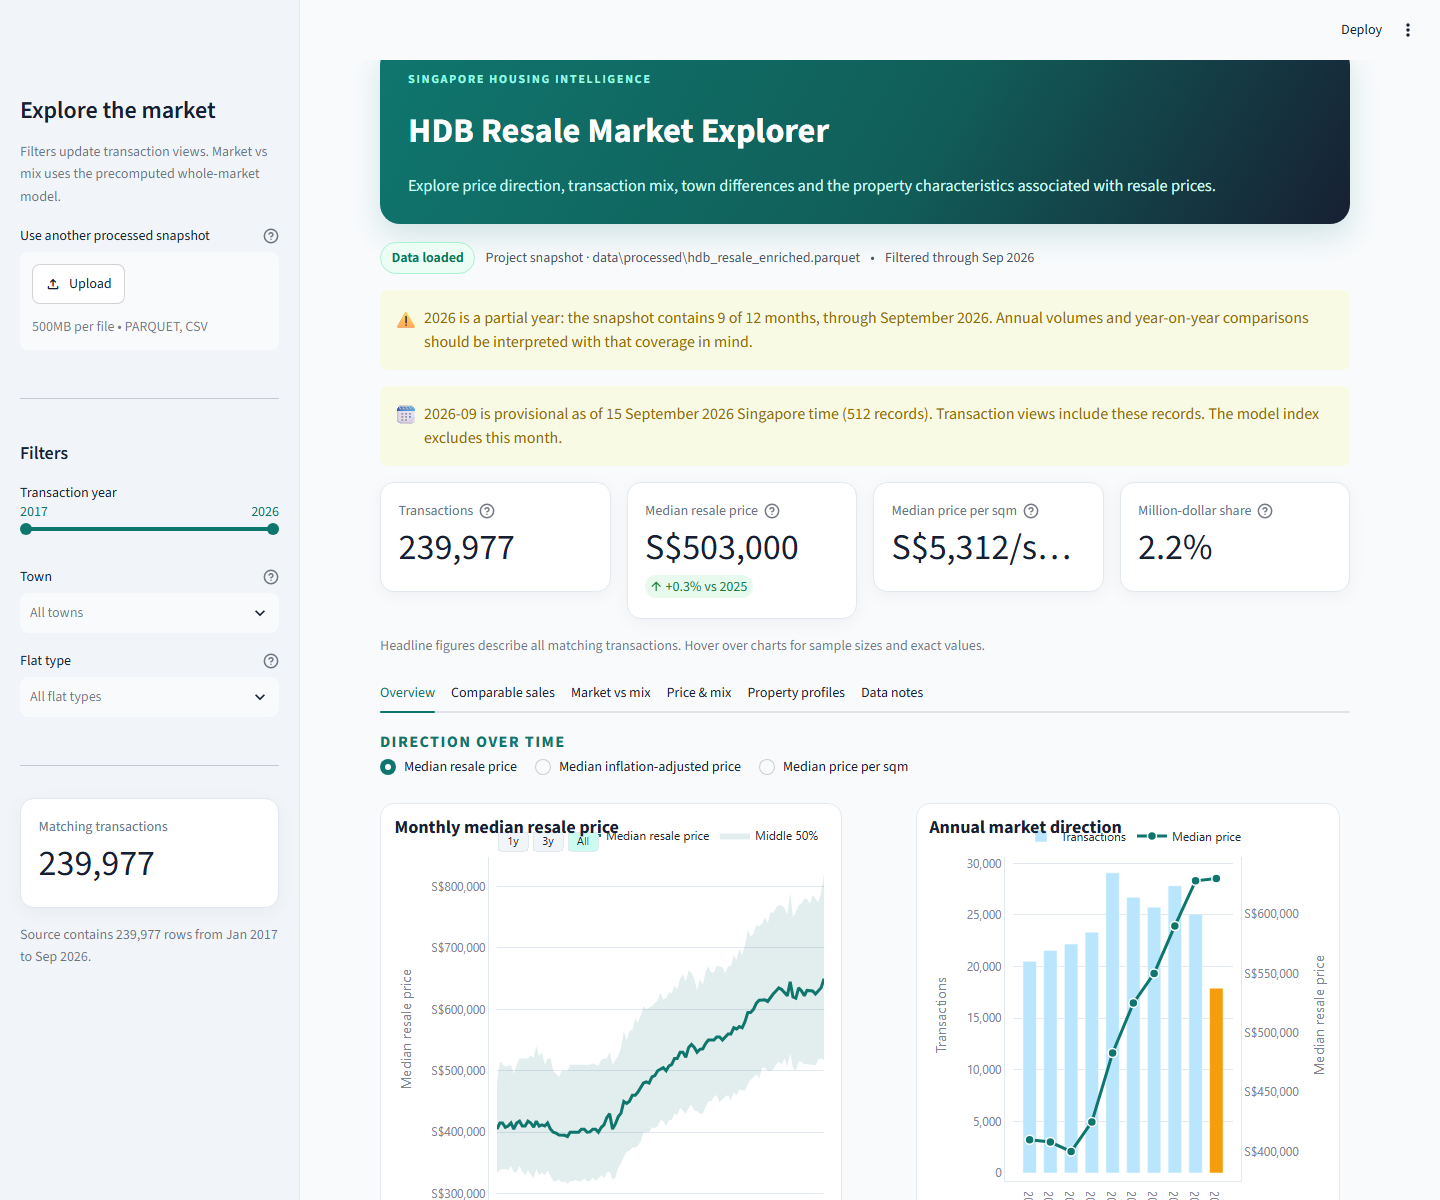
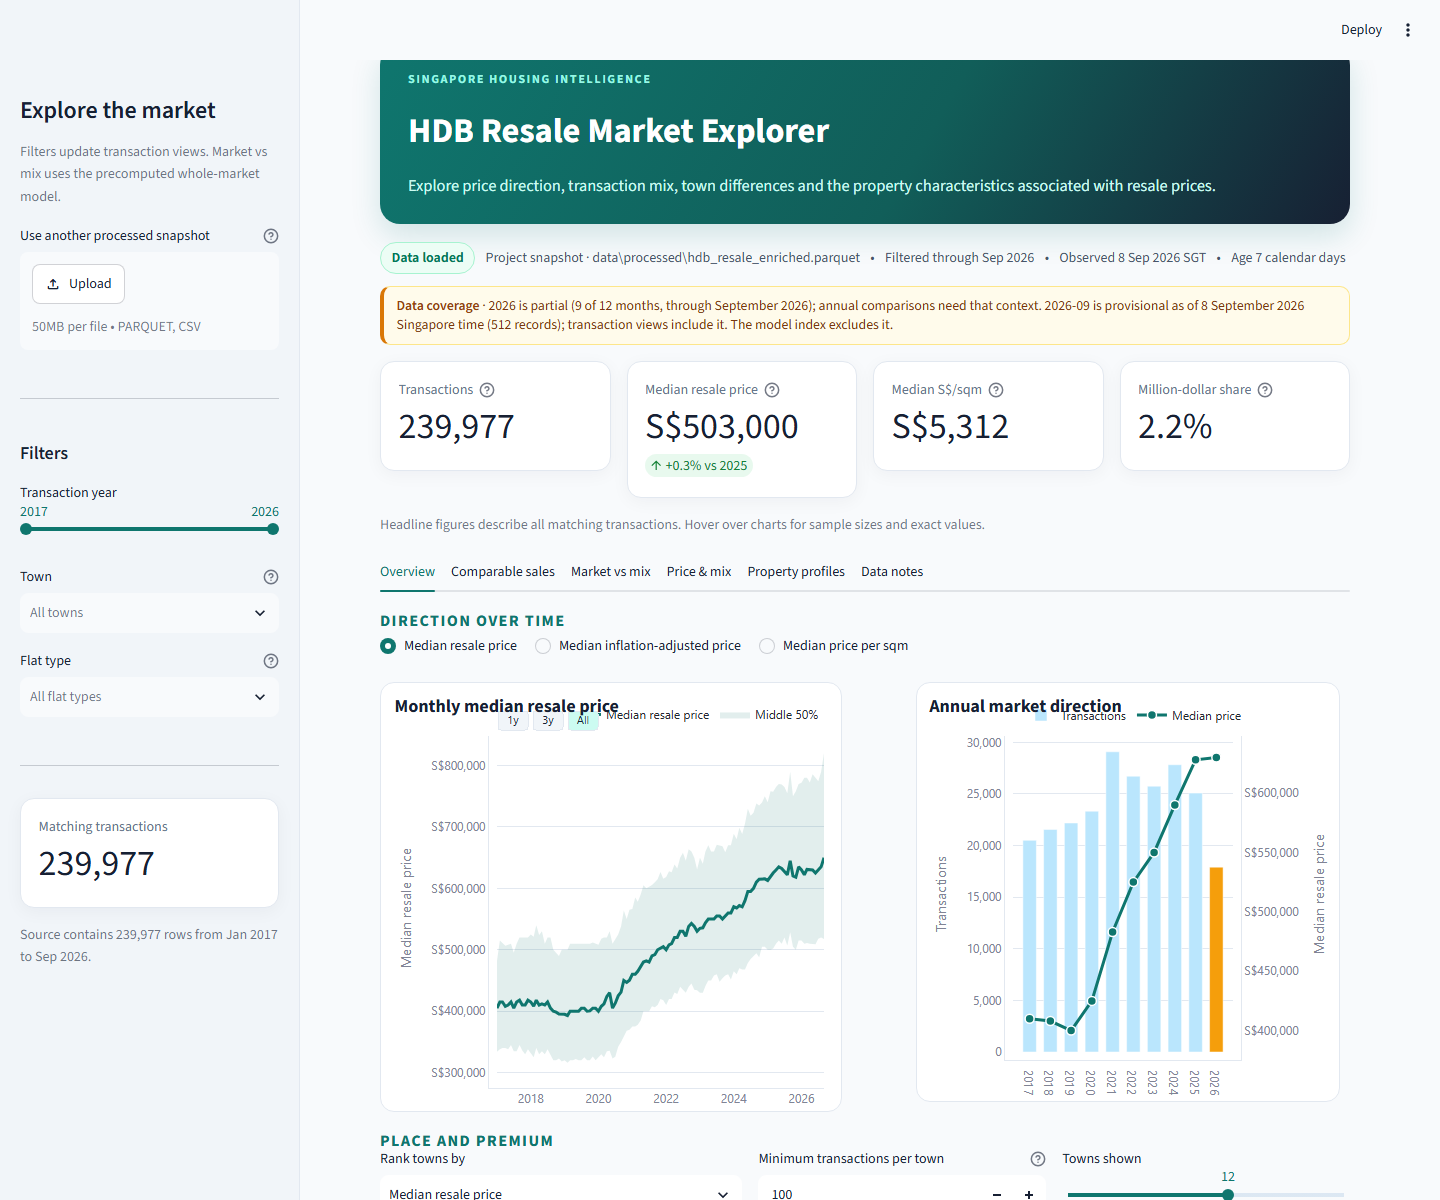
Release v1.1 dashboard polish

diff --git a/app.py b/app.py
@@ -90,6 +90,18 @@ st.markdown(
         margin: 0 0 1rem; color: #475569; font-size: 0.87rem;
       }
       .source-pill { background: #ecfdf5; color: #047857; border: 1px solid #a7f3d0; border-radius: 999px; padding: 0.22rem 0.65rem; font-weight: 650; }
+      .coverage-notice {
+        margin: -0.25rem 0 1rem;
+        padding: 0.58rem 0.78rem;
+        border: 1px solid #fde68a;
+        border-left: 4px solid #d97706;
+        border-radius: 10px;
+        background: #fffbeb;
+        color: #78350f;
+        font-size: 0.86rem;
+        line-height: 1.4;
+      }
+      .coverage-notice strong { color: #92400e; }
       .section-kicker { color: #0f766e; font-size: 0.78rem; letter-spacing: 0.09em; text-transform: uppercase; font-weight: 750; margin-bottom: -0.45rem; }
       .small-note { color: #64748b; font-size: 0.86rem; line-height: 1.45; }
       div[data-testid="stPlotlyChart"] { background: white; border: 1px solid #e2e8f0; border-radius: 14px; padding: 0.3rem; }
@@ -227,25 +239,28 @@ def optional_report(path: Path) -> pd.DataFrame | None:
 def provisional_source_month(
     transactions: pd.DataFrame,
     source_sha256: str,
+    *,
+    equivalent_hashes: tuple[str, ...] = (),
 ) -> dict[str, object] | None:
-    """Return a provisional latest-month disclosure independent of model files."""
-    as_of = pd.Timestamp.now(tz="Asia/Singapore")
+    """Return a provisional latest-month disclosure with verified source provenance."""
+    as_of: pd.Timestamp | None = None
     if SNAPSHOT_METADATA_PATH.is_file():
         try:
             snapshot = json.loads(SNAPSHOT_METADATA_PATH.read_text(encoding="utf-8"))
             matching_hashes = {
                 snapshot.get("processed_sha256"),
                 snapshot.get("processed_parquet_sha256"),
+                *equivalent_hashes,
             }
             if source_sha256 in matching_hashes:
-                timestamp_value = snapshot.get(
-                    "source_modified_at_utc",
-                    snapshot.get("generated_at_utc"),
-                )
+                timestamp_value = snapshot.get("source_modified_at_utc")
                 if timestamp_value:
                     as_of = pd.Timestamp(timestamp_value)
         except (OSError, TypeError, ValueError, json.JSONDecodeError):
-            pass
+            return None
+
+    if as_of is None:
+        return None
 
     if as_of.tzinfo is None:
         as_of = as_of.tz_localize("Asia/Singapore")
@@ -1018,9 +1033,9 @@ def comparable_map_figure(
     figure.update_layout(
         title=dict(
             text=(
-                "Comparable blocks and MRT network"
+                "Comparable blocks with MRT reference layer"
                 if has_sales_points
-                else "MRT network reference"
+                else "MRT reference layer"
             ),
             x=0.01,
             font=dict(size=18),
@@ -1086,8 +1101,8 @@ except DashboardDataError as exc:
 
 snapshot_freshness = None
 tracked_snapshot = tracked_snapshot_metadata()
+verified_equivalent_hashes: tuple[str, ...] = ()
 if uploaded_snapshot is None and tracked_snapshot is not None:
-    equivalent_hashes: tuple[str, ...] = ()
     if default_enriched_snapshot_is_verified():
         enrichment = enrichment_metadata() or {}
         enrichment_output = enrichment.get("output", {})
@@ -1097,11 +1112,11 @@ if uploaded_snapshot is None and tracked_snapshot is not None:
             else None
         )
         if isinstance(enriched_hash, str):
-            equivalent_hashes = (enriched_hash,)
+            verified_equivalent_hashes = (enriched_hash,)
     snapshot_freshness = assess_snapshot_freshness(
         tracked_snapshot,
         source_sha256,
-        equivalent_hashes=equivalent_hashes,
+        equivalent_hashes=verified_equivalent_hashes,
     )
 
 all_years = sorted(int(year) for year in transactions["year"].unique())
@@ -1228,14 +1243,17 @@ latest_source_year = int(full_coverage["year"].max())
 latest_coverage = full_coverage.loc[full_coverage["year"].eq(latest_source_year)].iloc[
     0
 ]
-provisional_month = provisional_source_month(transactions, source_sha256)
+provisional_month = provisional_source_month(
+    transactions,
+    source_sha256,
+    equivalent_hashes=verified_equivalent_hashes,
+)
+coverage_notes: list[str] = []
 if latest_source_year in selected_years and bool(latest_coverage["is_partial"]):
-    st.warning(
-        f"{latest_source_year} is a partial year: the snapshot contains "
-        f"{int(latest_coverage['months_observed'])} of 12 months, through "
-        f"{latest_coverage['last_month']:%B %Y}. Annual volumes and year-on-year "
-        "comparisons should be interpreted with that coverage in mind.",
-        icon="⚠",
+    coverage_notes.append(
+        f"{latest_source_year} is partial ({int(latest_coverage['months_observed'])} "
+        f"of 12 months, through {latest_coverage['last_month']:%B %Y}); annual "
+        "comparisons need that context."
     )
 if (
     provisional_month is not None
@@ -1246,19 +1264,25 @@ if (
 ):
     as_of = provisional_month["as_of"]
     model_note = (
-        " The model index excludes this month."
+        " The model index excludes it."
         if model_metrics is not None
         and model_metrics.get("input_provenance", {}).get(
             "provisional_latest_month_excluded"
         )
         else ""
     )
-    st.warning(
+    coverage_notes.append(
         f"{provisional_month['month']} is provisional as of "
         f"{as_of.day} {as_of:%B %Y} Singapore time "
-        f"({int(provisional_month['rows']):,} records). Transaction views include "
-        f"these records.{model_note}",
-        icon="🗓",
+        f"({int(provisional_month['rows']):,} records); transaction views include "
+        f"it.{model_note}"
+    )
+if coverage_notes:
+    st.markdown(
+        '<div class="coverage-notice"><strong>Data coverage</strong> · '
+        + " ".join(coverage_notes)
+        + "</div>",
+        unsafe_allow_html=True,
     )
 if len(filtered) < 100:
     transaction_word = "transaction" if len(filtered) == 1 else "transactions"
@@ -1289,9 +1313,9 @@ with kpi_columns[1]:
     )
 with kpi_columns[2]:
     st.metric(
-        "Median price per sqm",
-        f"{currency(float(filtered['price_per_sqm'].median()))}/sqm",
-        help="Resale price divided by floor area, then summarised by the median.",
+        "Median S$/sqm",
+        currency(float(filtered["price_per_sqm"].median())),
+        help="Median price per square metre: resale price divided by floor area.",
     )
 with kpi_columns[3]:
     st.metric(
@@ -1794,9 +1818,15 @@ with comparable_tab:
 
         mrt_exits = optional_report(MRT_EXITS_PATH)
         mrt_summary = optional_report(MRT_SUMMARY_PATH)
+        mrt_metadata = (enrichment_metadata() or {}).get("mrt", {})
+        mrt_coverage_pct = (
+            mrt_metadata.get("coverage_pct")
+            if isinstance(mrt_metadata, dict)
+            else None
+        )
         map_figure = comparable_map_figure(comparable_sales, mrt_exits)
         with st.expander(
-            "Comparable blocks and MRT context",
+            "MRT reference layer",
             expanded=map_figure is not None,
         ):
             if map_figure is not None:
@@ -1811,9 +1841,17 @@ with comparable_tab:
                     else comparable_sales.iloc[0:0]
                 )
                 if geocoded_sales.empty:
+                    coverage_text = (
+                        f" Transaction-level MRT coverage is {float(mrt_coverage_pct):g}% "
+                        "in this snapshot."
+                        if isinstance(mrt_coverage_pct, (int, float))
+                        else ""
+                    )
                     st.caption(
-                        "The map currently shows the official MRT-exit reference layer. "
-                        "Comparable blocks will appear after OneMap geocoding enrichment."
+                        "Reference layer only: the map shows official MRT exits, not "
+                        "distances joined to individual resale transactions."
+                        f"{coverage_text} Comparable blocks require validated OneMap "
+                        "geocoding enrichment."
                     )
                 elif "nearest_mrt_distance_m" in geocoded_sales.columns:
                     distance_values = geocoded_sales[
@@ -1826,8 +1864,9 @@ with comparable_tab:
                         )
             else:
                 st.caption(
-                    "The block/MRT map will appear when transaction coordinates or "
-                    "the optional MRT-station reference report are available."
+                    "The MRT reference layer will appear when the optional official "
+                    "station-exit report is available; comparable blocks additionally "
+                    "require validated transaction coordinates."
                 )
 
             if (

diff --git a/tests/test_app_smoke.py b/tests/test_app_smoke.py
@@ -53,7 +53,7 @@ class DashboardSmokeTests(unittest.TestCase):
             [radio.label for radio in self.app.radio],
         )
         self.assertIn(
-            "Comparable blocks and MRT context",
+            "MRT reference layer",
             [expander.label for expander in self.app.expander],
         )
         self.assertIn(
@@ -64,15 +64,61 @@ class DashboardSmokeTests(unittest.TestCase):
             "Rolling coverage",
             [metric.label for metric in self.app.metric],
         )
+        snapshot_metadata = json.loads(
+            (PROJECT_ROOT / "data" / "processed" / "snapshot_metadata.json").read_text(
+                encoding="utf-8"
+            )
+        )
+        enrichment_metadata = json.loads(
+            (PROJECT_ROOT / "reports" / "official_enrichment_metadata.json").read_text(
+                encoding="utf-8"
+            )
+        )
+        source_observed_at = pd.Timestamp(
+            snapshot_metadata["source_modified_at_utc"]
+        ).tz_convert("Asia/Singapore")
+        artifact_generated_at = pd.Timestamp(
+            enrichment_metadata["generated_at_utc"]
+        ).tz_convert("Asia/Singapore")
+        source_date = f"{source_observed_at.day} {source_observed_at:%B %Y}"
+        artifact_date = f"{artifact_generated_at.day} {artifact_generated_at:%B %Y}"
+
         visible_text = " ".join(
             element.value
-            for element_type in ("markdown", "warning")
+            for element_type in ("markdown", "warning", "caption")
             for element in self.app.get(element_type)
             if isinstance(element.value, str)
         )
         self.assertIn("not a formal valuation", visible_text)
-        self.assertIn("Observed", visible_text)
+        self.assertIn(
+            f"Observed {source_observed_at.day} {source_observed_at:%b %Y} SGT",
+            visible_text,
+        )
         self.assertIn("calendar days", visible_text)
+        self.assertIn("Data coverage", visible_text)
+        self.assertIn(f"as of {source_date}", visible_text)
+        if artifact_date != source_date:
+            self.assertNotIn(f"as of {artifact_date}", visible_text)
+        self.assertIn("Transaction-level MRT coverage is 0%", visible_text)
+        coverage_notices = [
+            element.value
+            for element in self.app.get("markdown")
+            if '<div class="coverage-notice">' in str(element.value)
+        ]
+        self.assertEqual(len(coverage_notices), 1)
+        warning_text = " ".join(
+            element.value
+            for element in self.app.get("warning")
+            if isinstance(element.value, str)
+        )
+        self.assertNotIn("partial year", warning_text)
+        self.assertNotIn("is provisional as of", warning_text)
+        price_per_sqm_metric = next(
+            metric
+            for metric in self.app.metric
+            if metric.label == "Median S$/sqm"
+        )
+        self.assertNotIn("/sqm", price_per_sqm_metric.value)
 
     def test_inflation_adjusted_comparables_render_without_errors(self) -> None:
         app = AppTest.from_file(
@@ -118,11 +164,27 @@ class DashboardSmokeTests(unittest.TestCase):
                     default_timeout=60,
                 ).run(timeout=60)
 
+            with clean_csv.open("ab") as output_file:
+                output_file.write(b"\n")
+            with patch.dict(os.environ, {"HDB_DATA_PATH": str(clean_csv)}):
+                unverified_app = AppTest.from_file(
+                    str(PROJECT_ROOT / "app.py"),
+                    default_timeout=60,
+                ).run(timeout=60)
+
         self.assertEqual(list(app.exception), [])
         self.assertIn(
             "Adjusted growth since Jan 2017",
             [metric.label for metric in app.metric],
         )
+        self.assertEqual(list(unverified_app.exception), [])
+        unverified_text = " ".join(
+            element.value
+            for element_type in ("markdown", "warning", "caption")
+            for element in unverified_app.get(element_type)
+            if isinstance(element.value, str)
+        )
+        self.assertNotIn("is provisional as of", unverified_text)
 
 
 if __name__ == "__main__":

diff --git a/README.md b/README.md
@@ -4,12 +4,39 @@
 [![License: MIT](https://img.shields.io/badge/License-MIT-0f766e.svg)](LICENSE)
 [![Open in Streamlit](https://static.streamlit.io/badges/streamlit_badge_black_white.svg)](https://singapore-hdb-resale-analytics-aof7acp9fd7ackqqxmmi5w.streamlit.app/)
 
-A production-style analytics portfolio built from official Singapore public data.
-It combines a validated Python pipeline, Parquet and SQLite data products,
-time-aware model evaluation, an official-data enrichment layer, decision-focused
-notebooks and a six-tab Streamlit application.
+**For HDB buyers and market analysts who need to separate genuine market movement
+from changes in the mix of flats sold.** Headline resale prices can be misleading
+when flat size, town, storey, age and an incomplete latest month are not handled
+carefully.
 
-[**Read the complete analysis report**](docs/analysis_report.md)
+## What I built
+
+I built the full analytics workflow: validated ingestion of official Singapore
+data, reproducible Parquet and SQLite outputs, nominal and inflation-adjusted
+analysis, a quality-adjusted market index, chronological model evaluation, and a
+six-tab Streamlit app with transparent comparable-sales fallbacks. I also added
+provenance checks, automation, documentation and 92 automated tests so the result
+can be audited and refreshed rather than treated as a one-off notebook.
+
+## Three main findings
+
+| Finding | Evidence from the current snapshot |
+| --- | --- |
+| Resale prices rose substantially across complete years | The annual median increased from **S$410,000 in 2017 to S$628,000 in 2025 (+53.2%)**. |
+| Transaction mix does not explain away the long-run increase | From Jan 2017 to Aug 2026, the raw monthly median index rose **56.8%** and the quality-adjusted index rose **56.6%**. |
+| A time-aware model materially beats a strong recent-market baseline | On Sep 2025-Aug 2026, Ridge achieved **S$52,844 MAE**, a **35.5% improvement** over the prior-12-month town x flat-type baseline. |
+
+These are market-level results, not unit valuations; September 2026 is provisional
+and excluded from the model and price index.
+
+## Try the project
+
+[**Open the live dashboard**](https://singapore-hdb-resale-analytics-aof7acp9fd7ackqqxmmi5w.streamlit.app/)
+&nbsp;|&nbsp; [**Watch the dashboard walkthrough**](images/dashboard_demo.gif)
+&nbsp;|&nbsp; [**Read the complete analysis report**](docs/analysis_report.md)
+
+**Stack:** Python 3.12 · pandas · scikit-learn · Plotly · Streamlit · Parquet ·
+SQLite/SQL · Jupyter · GitHub Actions
 
 ![Animated walkthrough of the HDB market dashboard](images/dashboard_demo.gif)
 

diff --git a/RELEASE_NOTES.md b/RELEASE_NOTES.md
@@ -1,16 +1,29 @@
-# Singapore HDB Resale Market Analytics v1.0.0
+# Singapore HDB Resale Market Analytics v1.1.0
 
-This is the first portfolio release of the reproducible HDB resale analytics
-project, built from official Singapore public data.
+This release tightens the dashboard's data-provenance messaging and improves its
+first-screen presentation without expanding the project's scope.
 
 ## Highlights
 
+- Verified enriched snapshots now display the transaction source observation
+  date rather than the artifact-generation date
+- A regression check protects the 8 September 2026 source date from being shown
+  as 15 September when the default enriched snapshot is loaded
+- MRT content is labelled as an official **reference layer**; the dashboard does
+  not imply that MRT distance is attached to transactions while block-coordinate
+  coverage remains 0%
+- The first screen uses one compact data-coverage notice and a readable
+  price-per-square-metre KPI
+- The README now leads with the intended user, problem, personal contribution,
+  three evidence-backed findings, demo links and technology stack
+- Dashboard preview assets were refreshed for the v1.1 interface
 - Six-tab Streamlit market explorer with transparent comparable sales
-- Official SingStat CPI and LTA MRT-exit enrichment with provenance
+- Official SingStat CPI enrichment and a separately validated LTA MRT-exit
+  reference layer with provenance
 - Four expanding-window model backtests and stronger segment baselines
 - Error slices plus empirical price-range coverage diagnostics
 - Resilient official-data downloads with bounded retry and rate-limit handling
-- Verified Parquet snapshots, SQLite reconciliation and 88 automated tests
+- Verified Parquet snapshots, SQLite reconciliation and **92 automated tests**
 - MIT-licensed code with complete third-party data attribution
 
 ## Snapshot results
@@ -28,4 +41,6 @@ The model is for market monitoring, not formal valuation or financial advice.
 The empirical price range transparently under-covers its nominal 80% backtest
 target.
 
-Block-to-MRT distances remain unavailable until the user supplies a OneMap API
+Block-to-MRT distances remain unavailable until a user supplies a OneMap API
+token and builds the optional block-coordinate cache. The included LTA data is a
+validated station-exit reference layer, not transaction-level MRT enrichment.
